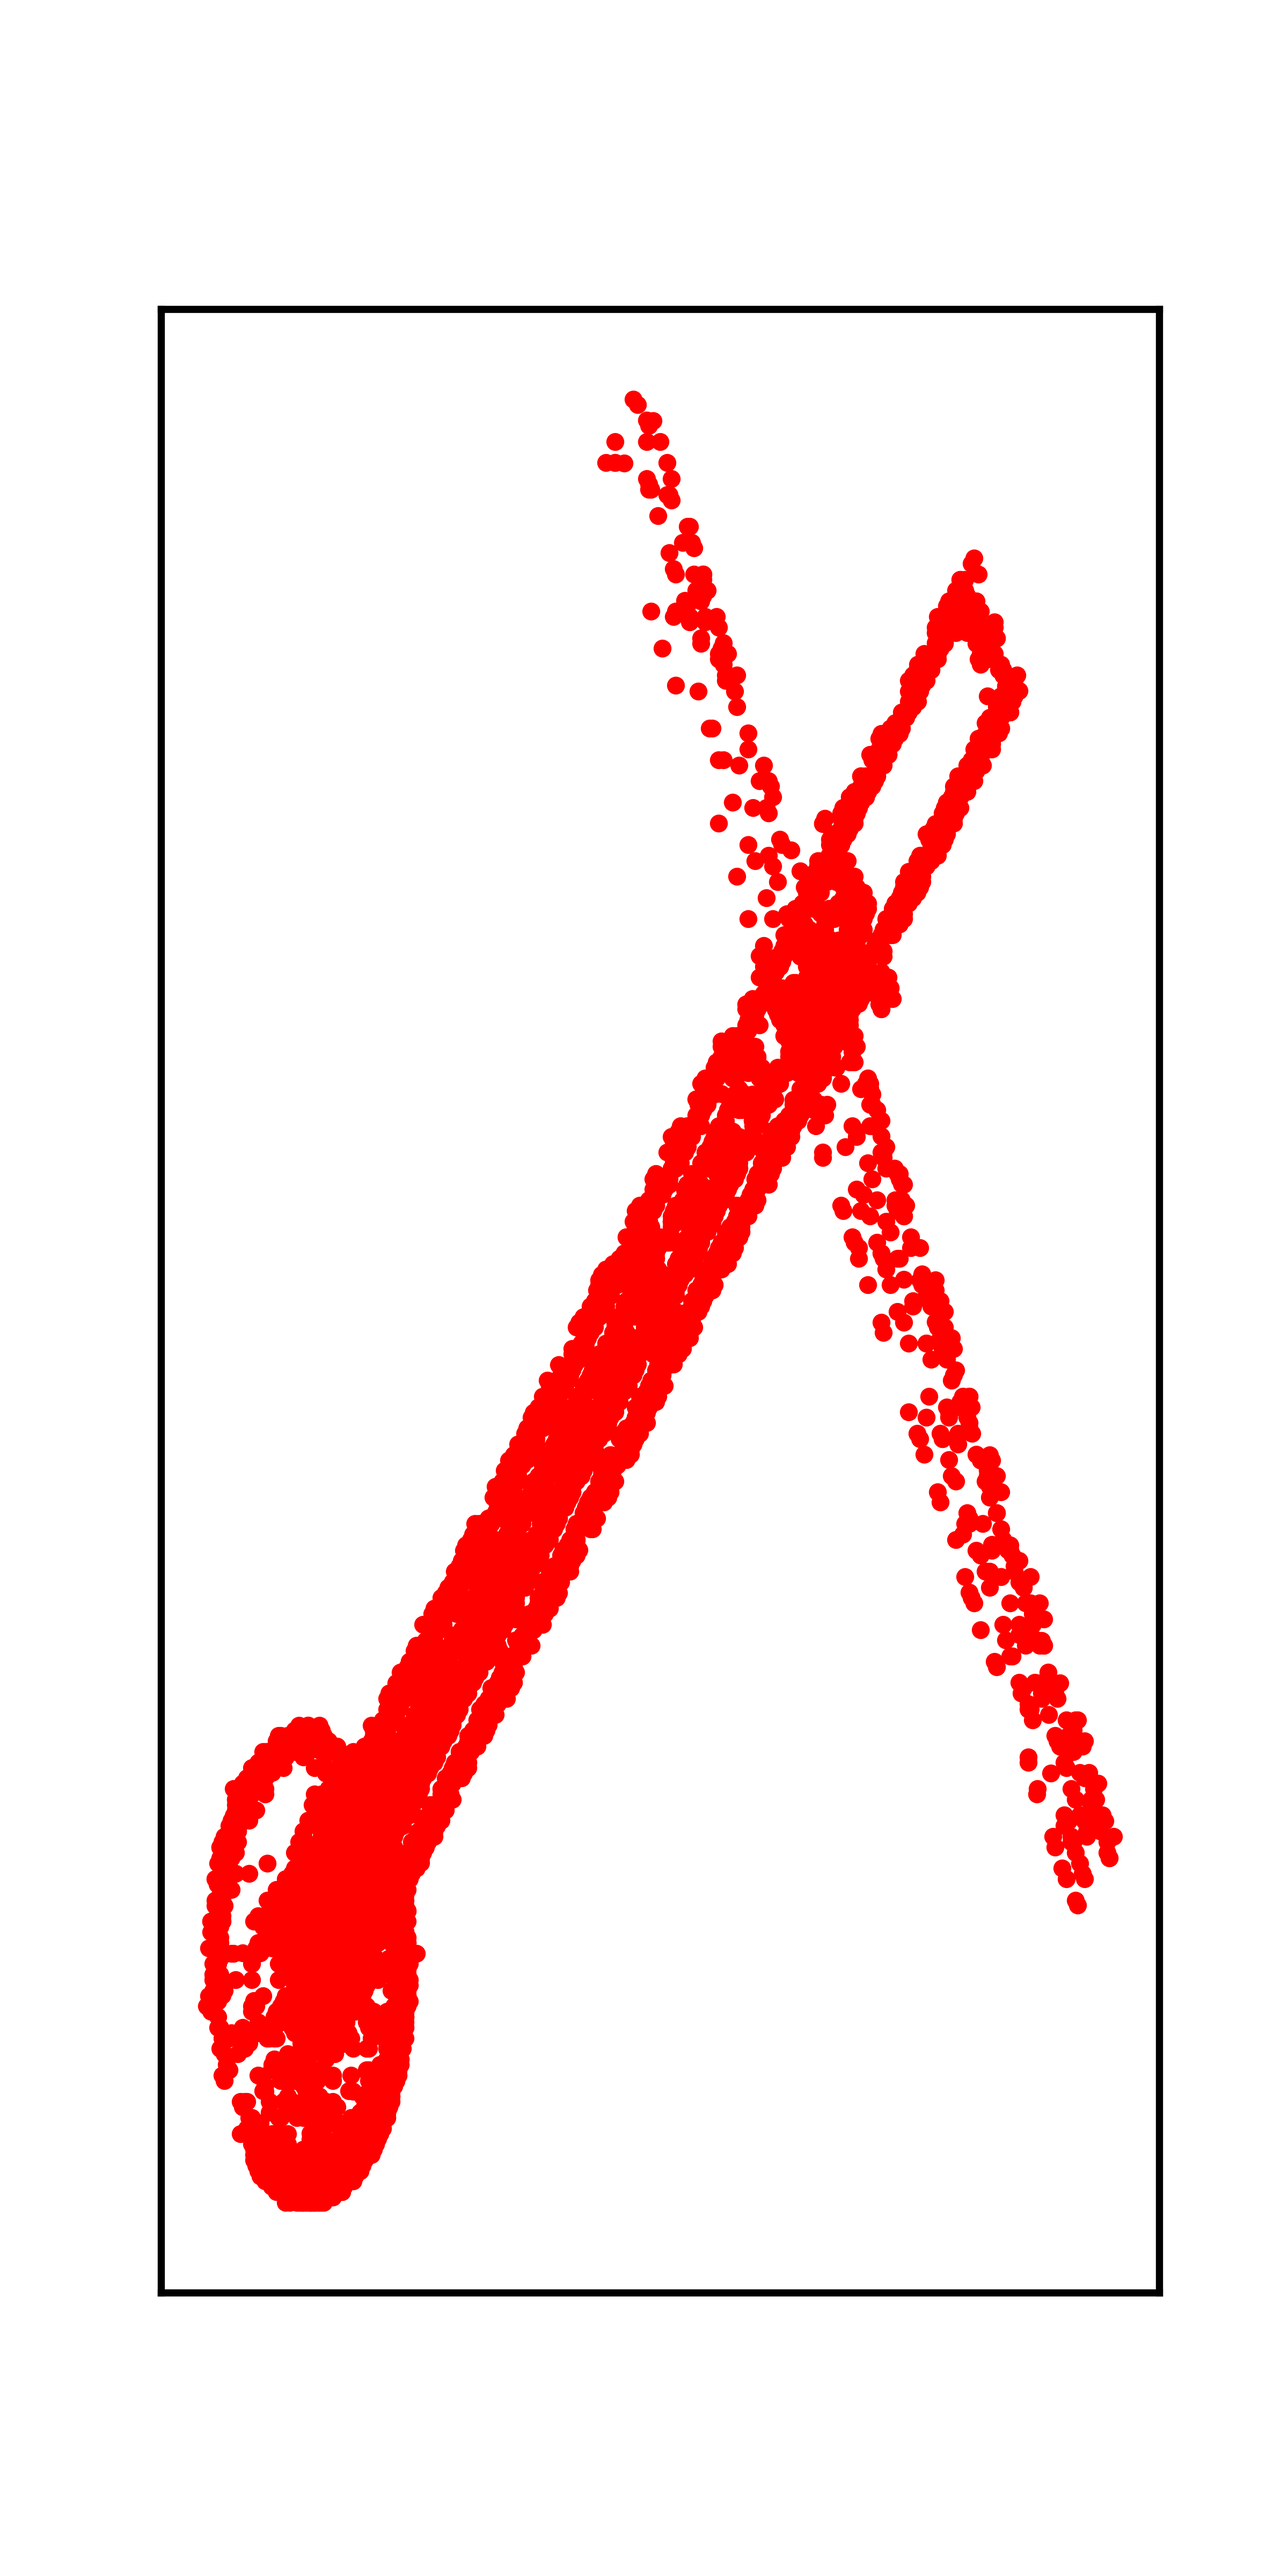
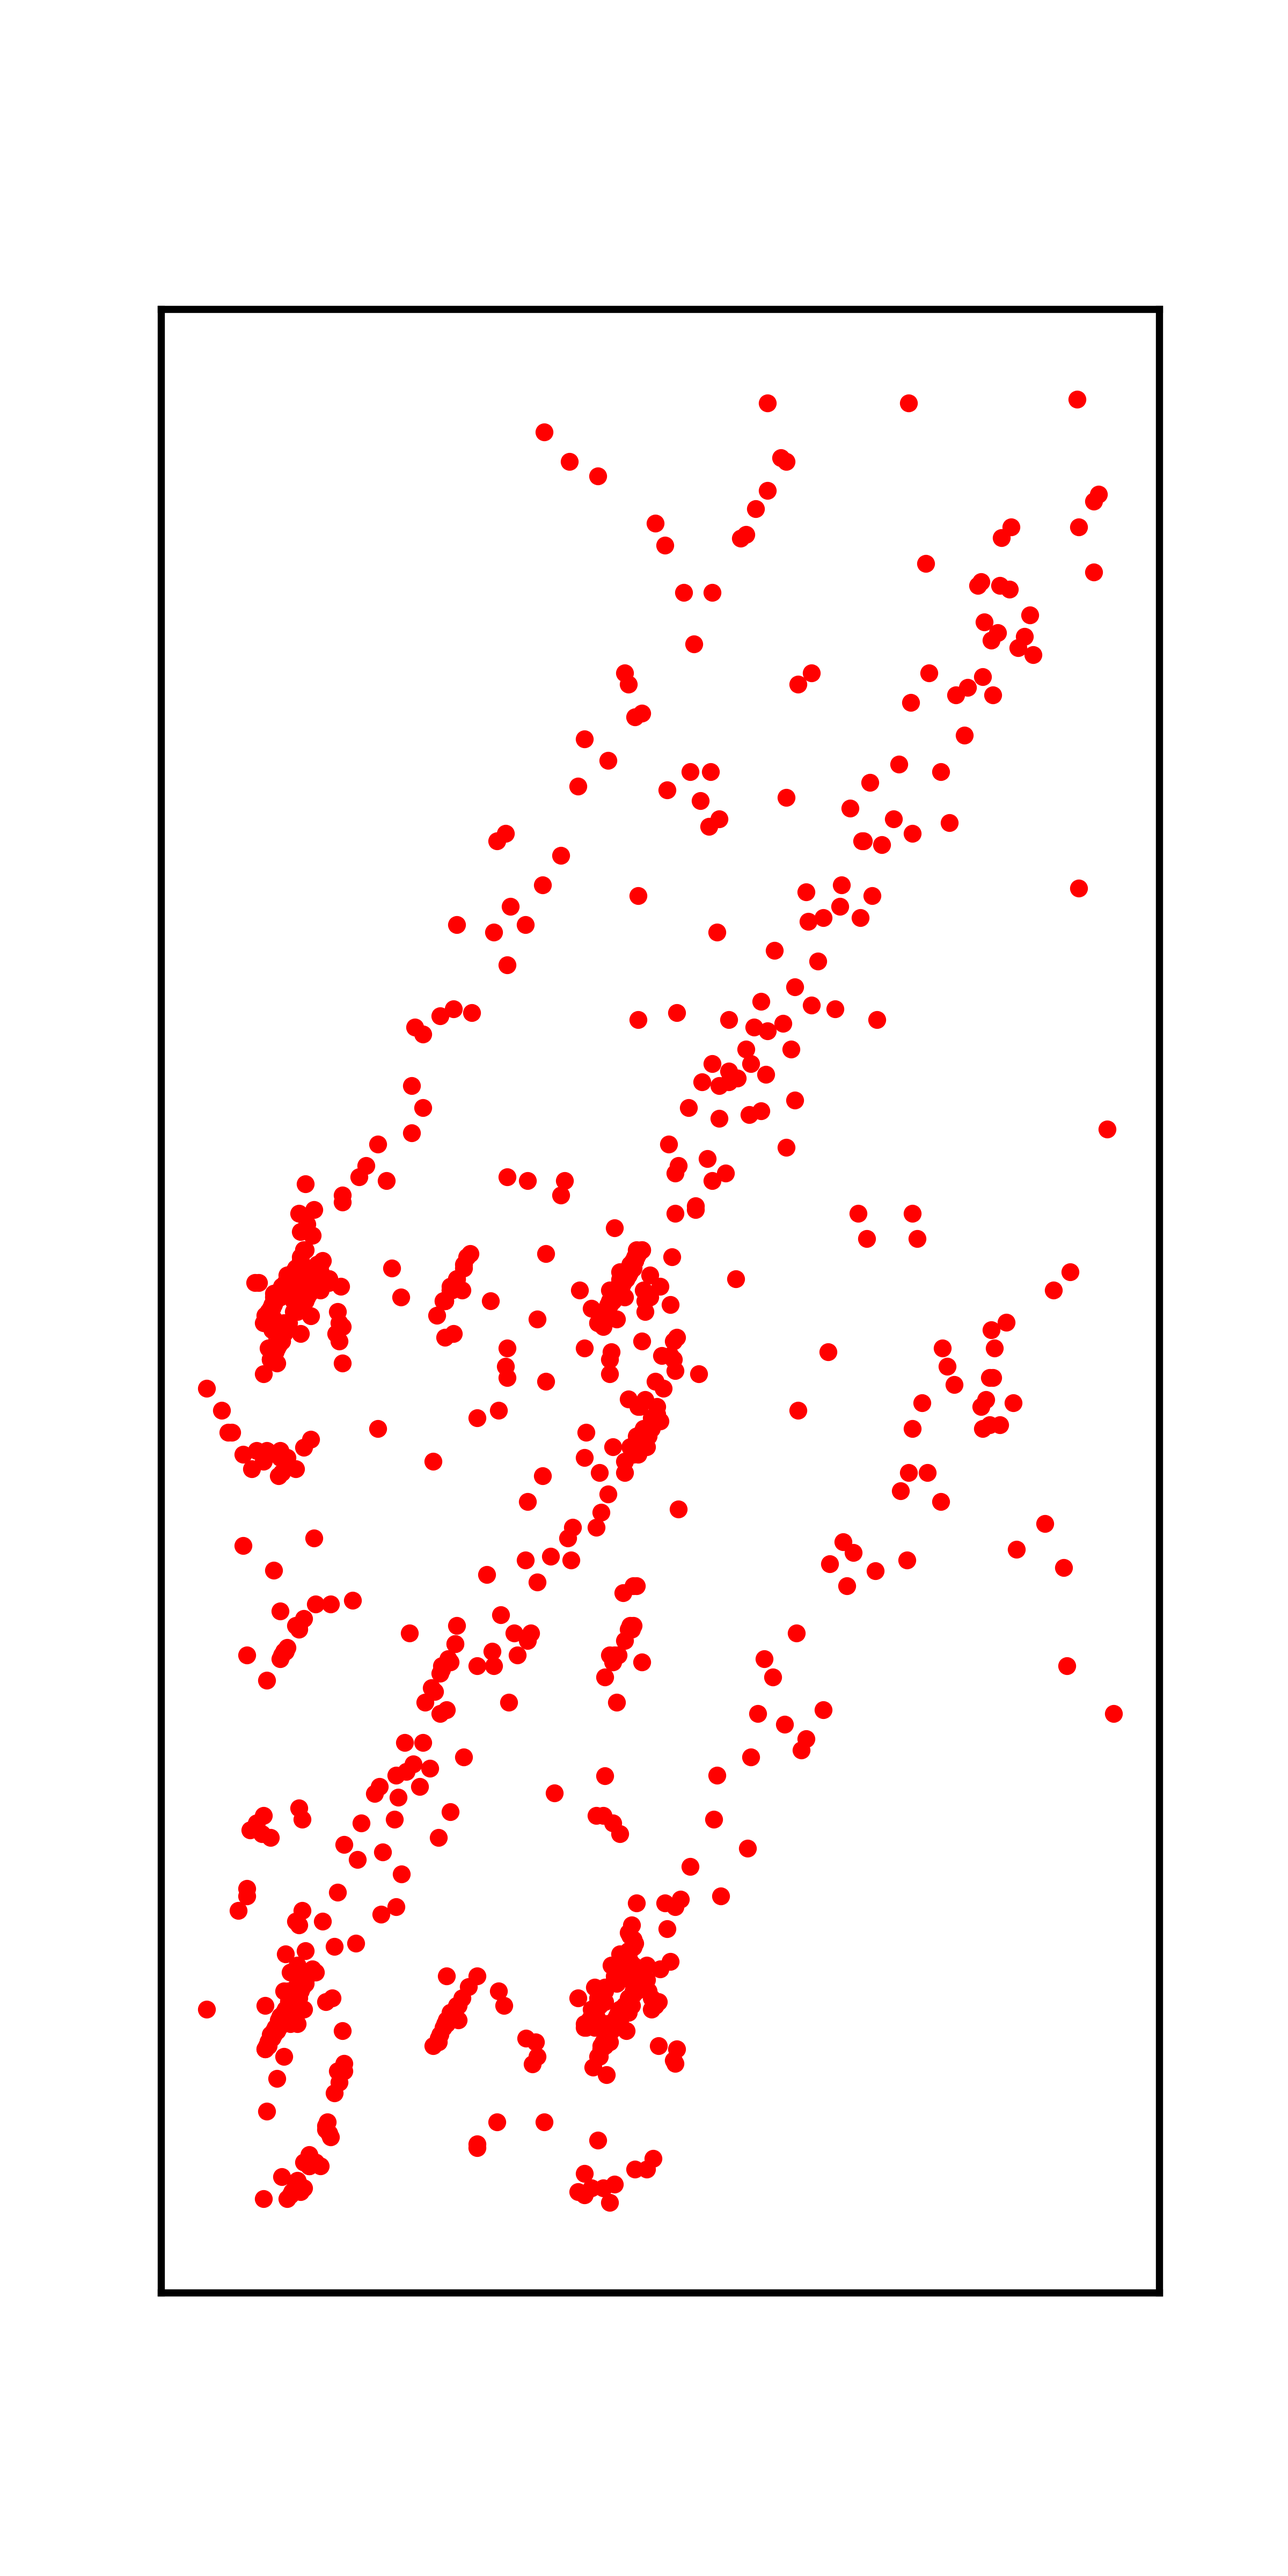
new results

diff --git a/topo_layer/holes.py b/topo_layer/holes.py
@@ -54,10 +54,44 @@ if not os.path.exists('results/images/'+str(args.results_folder)):
 	os.makedirs('results/images/'+str(args.results_folder))
 
 
-
 np.random.seed(0)
 data = np.load(args.data_file)[4]
+sampled_indices = np.random.choice(data.shape[0], 1000, replace=False)
+data = data[sampled_indices]
 print(data.shape)
+
+
+
+
+# cylinder point cloud
+# inner_radius = 0.5
+# outer_radius = 1.0
+# height = 2.0
+# num_points = 500
+# center = np.array([0.0, 0.0, 0.0])
+# theta = np.random.uniform(0, 2 * np.pi, num_points)
+# z = np.random.uniform(-height / 2, height / 2, num_points)
+# r = np.sqrt(np.random.uniform(inner_radius**2, outer_radius**2, num_points))
+# x = r * np.cos(theta)
+# y = r * np.sin(theta)
+# points = np.column_stack((x, y, z))
+# points += center
+# print("Cylinder point cloud shape:", points.shape)
+# fig = plt.figure()
+# ax = fig.add_subplot(111, projection='3d')
+# x = points[:, 0]
+# y = points[:, 1]
+# z = points[:, 2]
+# ax.scatter(x, y, z, c='b', marker='o')
+# ax.set_xlabel('X Label')
+# ax.set_ylabel('Y Label')
+# ax.set_zlabel('Z Label')
+# ax.set_title('Cylinder Point Cloud')
+# plt.show()
+# data =points
+
+
+
 
 # optimization to increase size of holes
 layer = AlphaLayer(maxdim=1)
@@ -65,8 +99,8 @@ x = torch.autograd.Variable(torch.tensor(data).type(torch.float), requires_grad=
 f1 = BarcodePolyFeature(0,2,0)  # dm, p ,q
 
 k=0
-optimizer = torch.optim.Adam([x], lr=1e-4)
-for i in range(1000):
+optimizer = torch.optim.Adam([x], lr=1)
+for i in range(100):
     optimizer.zero_grad()
     loss = f1(layer(x))
     save_topo(x, k, args.results_folder)
